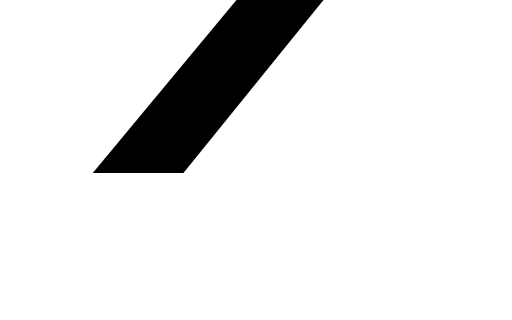
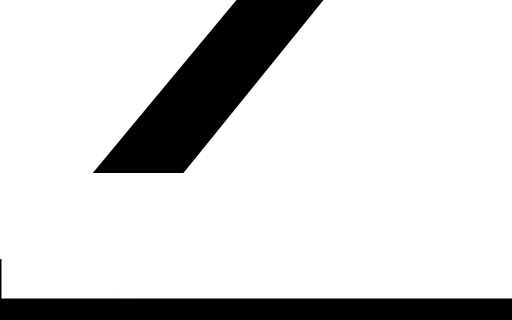
Move the flip scoreboard to scene 3. Fix some issues by rearranging the draw order.

Changed region(s): [[0.0, 0.8125, 1.0, 1.0]]

diff --git a/source/scene3view.cpp b/source/scene3view.cpp
@@ -14,27 +14,58 @@ void Scene3View::Setup() {
   ofEnableAlphaBlending();
   ofEnableSmoothing();
   ofBackground(ofColor::white);
+  for (int i = 0; i < 10; ++i) {
+    std::stringstream top_filename, bottom_filename;
+    top_filename << i << "_top.png";
+    bottom_filename << i << "_bottom.png";
+    top[i].loadImage(top_filename.str());
+    bottom[i].loadImage(bottom_filename.str());
+  }
 }
 
 void Scene3View::Draw(Model &model) {
   Scene3Model &scene3_model = dynamic_cast<Scene3Model &>(model);
+
   ofSetRectMode(OF_RECTMODE_CORNER);
   ofPushMatrix();
   ofMultMatrix(view_matrix);
-  ofPushMatrix();
-  ofSetColor(ofColor::black);
-  std::stringstream out;
-  if (scene3_model.score < 10) {
-    out << ' ';
-  }
-  out << fmod(scene3_model.score, 100.0f);
-  ofScale(1.0, -1.0);
-  font.drawStringAsShapes(out.str(), -8.5, -1);
-  ofPopMatrix();
+  ofImage &top_image = top[(scene3_model.score) % 10];
+  int index = scene3_model.angle >= 180.0 ? 1 : 0;
+  ofImage &bottom_image = bottom[(scene3_model.score + index - 1) % 10];
+  ofSetColor(ofColor::white);
+  top_image.draw(0.0, 2.0 * half_court_height, half_court_length, -half_court_height);
+  bottom_image.draw(0.0, half_court_height, half_court_length, -half_court_height);
+
   DrawCourt();
   DrawNet();
   DrawRacket(scene3_model.racket1);
   DrawRacket(scene3_model.opponent);
+
+  if (0.0 <= scene3_model.angle && scene3_model.angle < 180.0) {
+    ofPushMatrix();
+    ofTranslate(0, half_court_height);
+    ofRotateX(scene3_model.angle);
+    ofTranslate(0, -half_court_height);
+    ofVec3f normal = scene3_model.angle < 90 ? ofVec3f(0, 0, 1) : ofVec3f(0, 0, -1);
+    const ofVec3f rotated_normal = normal.rotated(scene3_model.angle, ofVec3f(1, 0, 0));
+    const ofVec3f light = ofVec3f(0, 0, -1).normalized();
+    ofImage &image = scene3_model.angle < 90 ? top[(scene3_model.score - 1) % 10] : bottom[(scene3_model.score) % 10];
+    const float offset = scene3_model.angle < 90 ? half_court_height : 0.0;
+    const float negate = scene3_model.angle < 90 ? -1.0 : 1.0;
+    ofSetColor(ofColor::white);
+    if (scene3_model.angle > 90) {
+      ofRect(0.0, half_court_height, half_court_length, half_court_height);
+      ofEnableAlphaBlending();
+      const float alpha = 1 + ofVec3f(0, -1, 0).dot(rotated_normal);
+      ofSetColor(ofColor::white, alpha * 255.0);
+      image.draw(0.0, half_court_height + offset, half_court_length, negate * half_court_height);
+      ofDisableAlphaBlending();
+    } else {
+      ofSetColor(HalfLambert(light, rotated_normal) * 255.0);
+      image.draw(0.0, half_court_height + offset, half_court_length, negate * half_court_height);
+    }
+    ofPopMatrix();
+  }
   if (scene3_model.ball_body) {
     DrawBall(ofVec2f(scene3_model.ball_body->GetPosition().x,
                      scene3_model.ball_body->GetPosition().y),
@@ -81,4 +112,9 @@ void Scene3View::DrawRacket(ofVec2f position) const {
   ofSetColor(ofColor::black);
   ofCircle(position, racket_radius);
   ofPopStyle();
+}
+
+float Scene3View::HalfLambert(ofVec3f light, ofVec3f normal) {
+  const float highlight = (-normal.dot(light) / 2.0 + 1.0 / 2.0);
+  return highlight * highlight;
 }

diff --git a/source/scene3controller.cpp b/source/scene3controller.cpp
@@ -28,8 +28,12 @@ void Scene3Controller::BeginContact(b2Contact* contact) {
   if (ball && court && ball->GetPosition().x > 0) {
     model_.bounces += 1;
     if (model_.bounces == 2) {
+      model_.angle = 0.0;
       model_.score += 1;
     }
+  }
+  if (ball && court && ball->GetPosition().x < 0) {
+    model_.bounces = 0;
   }
 }
 
@@ -61,6 +65,13 @@ void Scene3Controller::Update() {
       DestroyBall(model_.ball_body);
       model_.ball_body = nullptr;
     }
+  }
+  if (model_.angle <= 180.0 - 180.0 / 60.0) {
+    model_.angle += 180.0 / 60.0;
+  }
+  if (keys[' '] && !previous_keys[' ']) {
+    model_.angle = 0.0;
+    model_.score = (model_.score + 1) % 10;
   }
   Controller::Update();
 }

diff --git a/source/texttennis.cpp b/source/texttennis.cpp
@@ -3,7 +3,6 @@
 #include "constants.h"
 #include "introduction.h"
 #include "parameter.h"
-#include "flipscene.h"
 #include "scene.h"
 #include "scene1.h"
 #include "scene2.h"
@@ -20,7 +19,6 @@ TextTennis::TextTennis()
 : scene_factory_functions(), scene_index(0), current_scene(nullptr),
   show_sliders(false), float_panel(), int_panel() {
   scene_factory_functions.push_back(Introduction::Create);
-  scene_factory_functions.push_back(FlipScene::Create);
   scene_factory_functions.push_back(Scene1::Create);
   scene_factory_functions.push_back(Scene2::Create);
   scene_factory_functions.push_back(Scene3::Create);

diff --git a/source/scene3model.cpp b/source/scene3model.cpp
@@ -5,4 +5,4 @@ Scene3Model::Scene3Model()
 : world(gravity_vector), ball_body(), court_body(nullptr), net_body(nullptr),
   border_body(nullptr), racket1(racket1_start_position), opponent(racket2_start_position),
   racket1_target(racket1_start_position), opponent_target(racket2_start_position),
-  score(), bounces(0) {}
+  score(0), angle(180.0), bounces(0) {}

diff --git a/source/scene3view.h b/source/scene3view.h
@@ -28,6 +28,11 @@ private:
   void DrawRacket(ofVec2f position) const;
 
 private:
+  float HalfLambert(ofVec3f light, ofVec3f normal);
+
+  ofImage top[10];
+  ofImage bottom[10];
+  
   ofTrueTypeFont font;
 };
 

diff --git a/source/scene3model.h b/source/scene3model.h
@@ -20,9 +20,12 @@ public:
   ofVec2f racket1, opponent;
   ofVec2f racket1_target, opponent_target;
 
-  float score;
+  int score;
 
   int bounces;
+
+
+  float angle;
 };
 
 #endif  // TEXTTENNIS_SCENE3MODEL_H_
